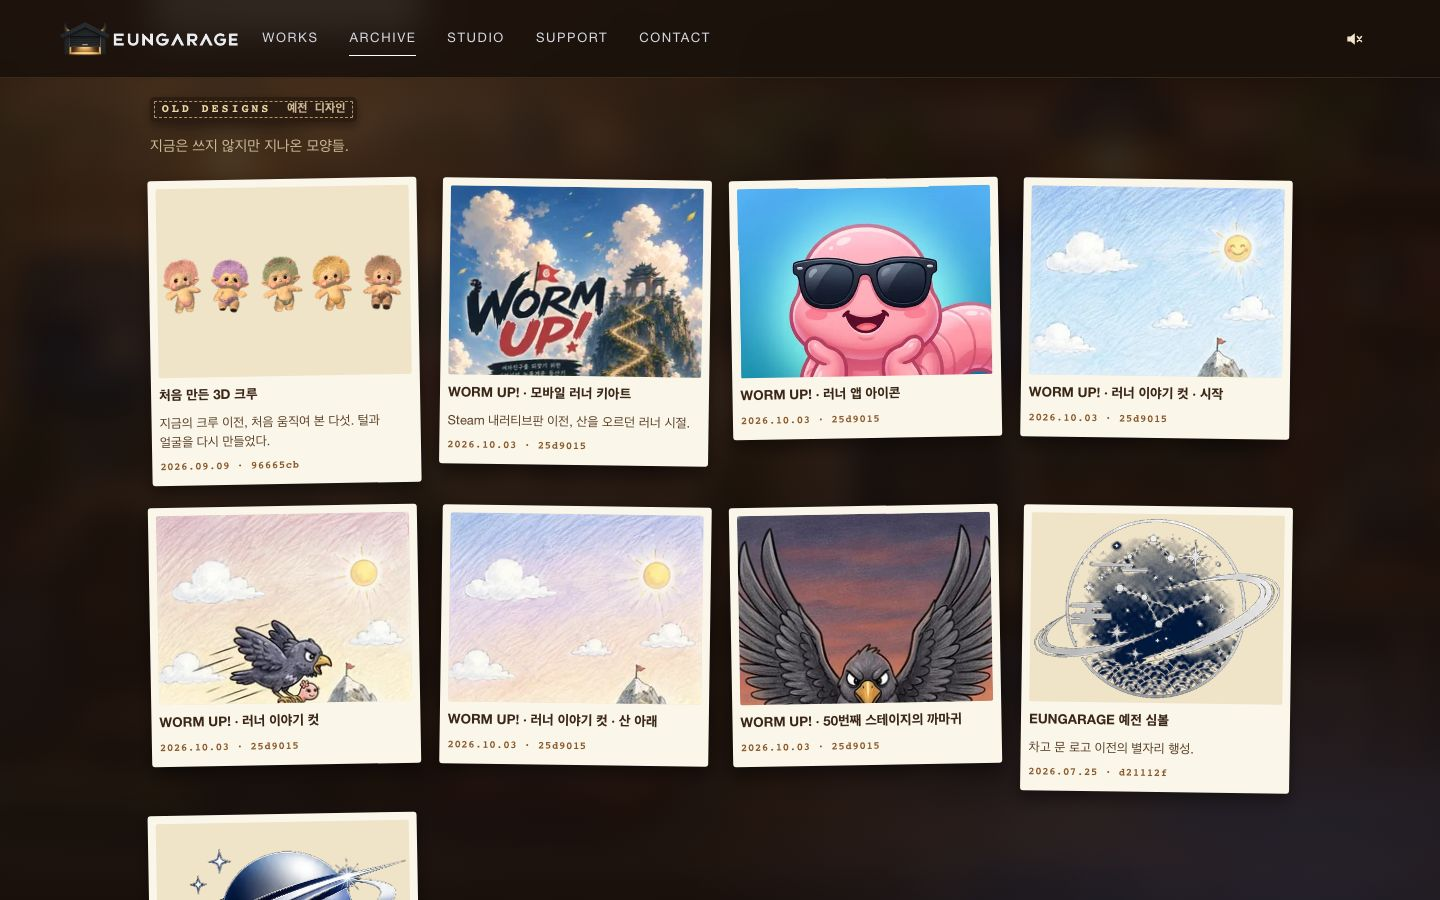
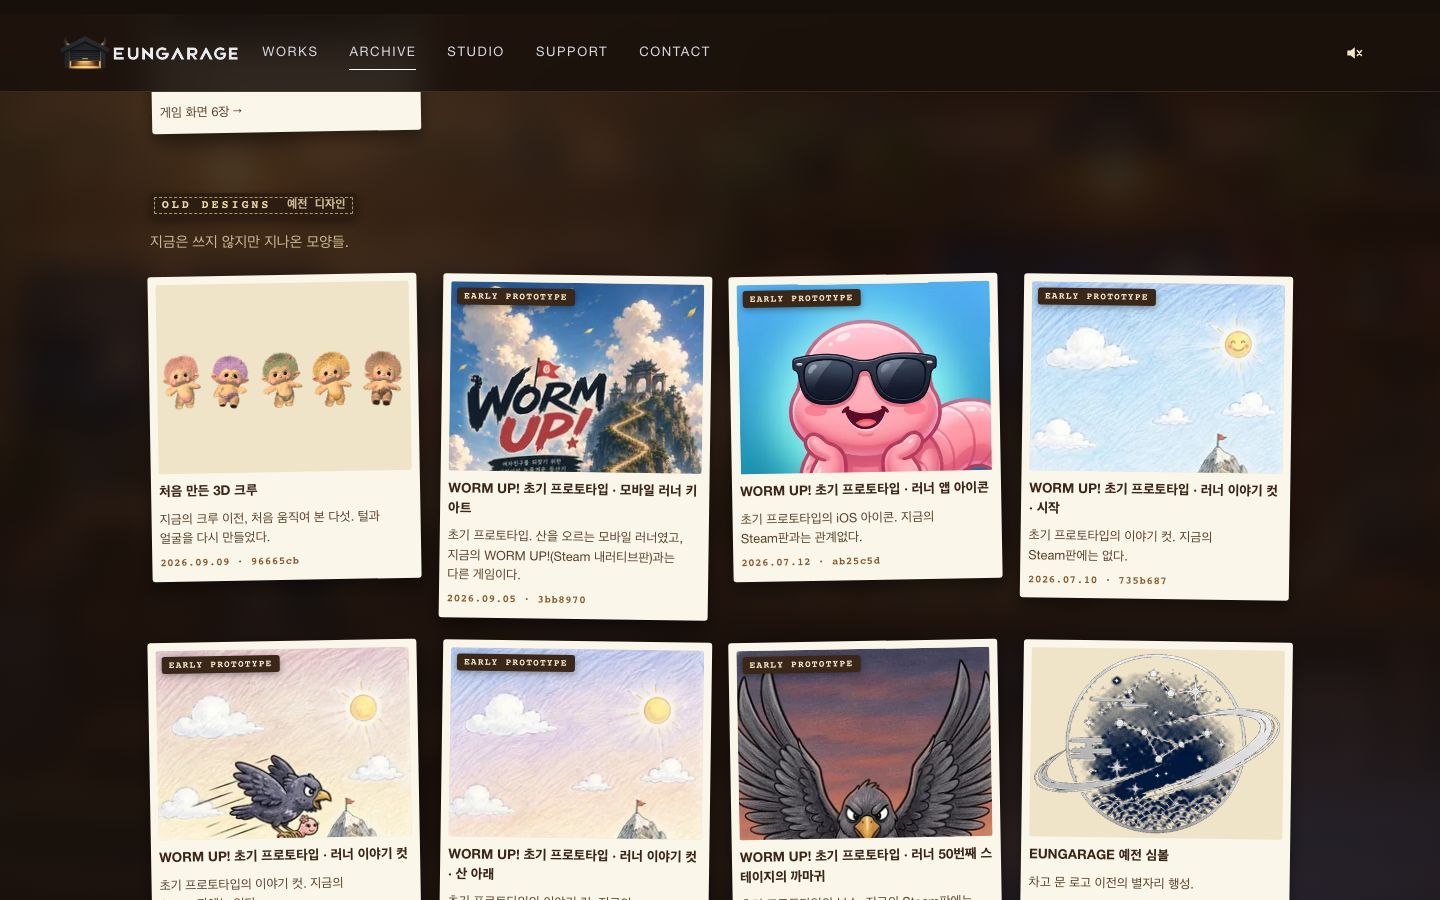
PHASE G: WORM UP! runner shown only as EARLY PROTOTYPE (badge, title, note, real dates); crew memos rewritten as notes in the crew's own voices

diff --git a/src/data/publicArchive.ts b/src/data/publicArchive.ts
@@ -51,6 +51,11 @@ export interface ArchivePicture {
   readonly h: number
   /** The work it belongs to, if one: that work's page can show it too. */
   readonly projectId?: string
+  /**
+   * A label on the card and in the viewer, for what must not be mistaken for
+   * the work as it is now: `EARLY PROTOTYPE` on the WORM UP! runner.
+   */
+  readonly badge?: string
 }
 
 /** A work's gallery, pointed at rather than copied. */
@@ -145,12 +150,22 @@ const DEVELOPMENT: readonly ArchivePicture[] = [
 
 const OLD: readonly ArchivePicture[] = [
   { id: 'crew-first-3d', title: '처음 만든 3D 크루', note: '지금의 크루 이전, 처음 움직여 본 다섯. 털과 얼굴을 다시 만들었다.', date: '2026.09.09', source: '96665cb', w: 1600, h: 419 },
-  { id: 'wormup-runner-keyart', projectId: 'wormup', title: 'WORM UP! · 모바일 러너 키아트', note: 'Steam 내러티브판 이전, 산을 오르던 러너 시절.', date: '2026.10.03', source: '25d9015', w: 900, h: 1600 },
-  { id: 'wormup-runner-icon', projectId: 'wormup', title: 'WORM UP! · 러너 앱 아이콘', date: '2026.10.03', source: '25d9015', w: 1024, h: 1024 },
-  { id: 'wormup-runner-couple', projectId: 'wormup', title: 'WORM UP! · 러너 이야기 컷 · 시작', date: '2026.10.03', source: '25d9015', w: 893, h: 1600 },
-  { id: 'wormup-runner-kidnap', projectId: 'wormup', title: 'WORM UP! · 러너 이야기 컷', date: '2026.10.03', source: '25d9015', w: 893, h: 1600 },
-  { id: 'wormup-runner-climb', projectId: 'wormup', title: 'WORM UP! · 러너 이야기 컷 · 산 아래', date: '2026.10.03', source: '25d9015', w: 893, h: 1600 },
-  { id: 'wormup-runner-crow', projectId: 'wormup', title: 'WORM UP! · 50번째 스테이지의 까마귀', date: '2026.10.03', source: '25d9015', w: 768, h: 1344 },
+  // WORM UP! as it began: a mobile runner, a different game from the Steam
+  // narrative WORM UP! of today (the work's page, and CONCEPT ART above).
+  // Every card says so, on the picture and in the viewer. Dated by when each
+  // picture was made: the story cuts, icon and boss by their commit in the
+  // runner's own repository (~/Projects/worm-up), the key art by its first
+  // commit on this site.
+  ...([
+    ['wormup-runner-keyart', '모바일 러너 키아트', '초기 프로토타입. 산을 오르는 모바일 러너였고, 지금의 WORM UP!(Steam 내러티브판)과는 다른 게임이다.', '2026.09.05', '3bb8970', 900, 1600],
+    ['wormup-runner-icon', '러너 앱 아이콘', '초기 프로토타입의 iOS 아이콘. 지금의 Steam판과는 관계없다.', '2026.07.12', 'ab25c5d', 1024, 1024],
+    ['wormup-runner-couple', '러너 이야기 컷 · 시작', '초기 프로토타입의 이야기 컷. 지금의 Steam판에는 없다.', '2026.07.10', '735b687', 893, 1600],
+    ['wormup-runner-kidnap', '러너 이야기 컷', '초기 프로토타입의 이야기 컷. 지금의 Steam판에는 없다.', '2026.07.10', '735b687', 893, 1600],
+    ['wormup-runner-climb', '러너 이야기 컷 · 산 아래', '초기 프로토타입의 이야기 컷. 지금의 Steam판에는 없다.', '2026.07.10', '735b687', 893, 1600],
+    ['wormup-runner-crow', '러너 50번째 스테이지의 까마귀', '초기 프로토타입의 보스. 지금의 Steam판에는 없다.', '2026.07.12', 'de47253', 768, 1344],
+  ] as const).map(([id, what, note, date, source, w, h]) => ({
+    id, projectId: 'wormup', badge: 'EARLY PROTOTYPE', title: `WORM UP! 초기 프로토타입 · ${what}`, note, date, source, w, h,
+  })),
   { id: 'mark-symbol-v01', title: 'EUNGARAGE 예전 심볼', note: '차고 문 로고 이전의 별자리 행성.', date: '2026.07.25', source: 'd21112f', w: 420, h: 312 },
   { id: 'mark-saturn', title: 'EUNGARAGE 예전 마크', note: '고리 달린 행성.', date: '2026.07.25', source: 'd21112f', w: 514, h: 295 },
 ].map((o) => ({ ...o, kind: 'picture' as const, category: 'old' as const, ...own(o.id) }))

diff --git a/src/data/memos.ts b/src/data/memos.ts
@@ -3,10 +3,12 @@
  * PHASE G). One is on top each time the box is opened.
  *
  * Every note is about something that really happened while the garage was
- * being made, on the day it happened (the commit is beside it), in the voice
- * of whoever in the crew it belongs to (docs/CREW_REBOOT.md: MOMO makes,
- * RUKI repairs, YOMI opens the fridge and peers at doors, POKO watches the
- * television, NUNU keeps the cushions). Nothing here is on the public archive.
+ * being made (the comment above each says what, and the commit is beside it),
+ * but written the way the crew would scribble it on a scrap of paper — like
+ * the fridge's own notes, not like a changelog. Each in its owner's voice
+ * (docs/CREW_REBOOT.md): MOMO bright and busy, NUNU sleepy and slow, RUKI
+ * short and practical, YOMI loud and curious, POKO calm, the one who keeps
+ * the room in order. Nothing here is on the public archive.
  */
 export type MemoAuthor = 'momo' | 'nunu' | 'ruki' | 'yomi' | 'poko'
 
@@ -24,10 +26,16 @@ export const MEMO_AUTHOR: Readonly<Record<MemoAuthor, string>> = {
 }
 
 export const MEMOS: readonly Memo[] = [
-  { id: 'memo-momo-ears', by: 'ruki', date: '2026.09.12', commit: '73324c3', text: '모모 머리 줄이지 말 것. 줄였더니 귀까지 작아졌다. 원래 그림대로 간다.' },
-  { id: 'memo-short-fur', by: 'momo', date: '2026.09.13', commit: '4e8aa66', text: '긴 털은 입체로 옮기면 조각조각 떠다닌다. 다섯 다 짧고 촘촘하게.' },
-  { id: 'memo-fridge-doors', by: 'yomi', date: '2026.10.04', commit: '2dfabb2', text: '냉장고 문은 바깥으로 연다. 안에 든 게 가려지면 열어 본 보람이 없으니까.' },
-  { id: 'memo-wisps', by: 'nunu', date: '2026.10.04', commit: '2dfabb2', text: '도깨비불은 넷. 가로등 뒤에 숨어 있던 둘을 앞으로 데려왔다.' },
-  { id: 'memo-two-walking', by: 'poko', date: '2026.10.05', commit: 'e135f69', text: '한 번에 걷는 건 둘까지. 셋이 걸으면 텔레비전이 안 보인다.' },
-  { id: 'memo-fridge-touch', by: 'ruki', date: '2026.10.05', commit: 'a203193', text: '냉장고 앞 도깨비를 눌렀는데 냉장고가 열렸다. 고쳤다. 이제 도깨비가 돌아본다.' },
+  // The redesign that was given up: MOMO's head was made smaller and the ears went with it.
+  { id: 'memo-momo-ears', by: 'momo', date: '2026.09.12', commit: '73324c3', text: '내 머리 작게 하지 마! 귀까지 쪼그라들었잖아. 원래 머리가 제일 좋아.' },
+  // Long fur came apart in 3D; all five went to short, dense pile.
+  { id: 'memo-short-fur', by: 'nunu', date: '2026.09.13', commit: '4e8aa66', text: '다 같이 털 짧게 깎은 날… 이제 방석에 털이 안 날린다. 좋다.' },
+  // The fridge doors were redrawn to swing outward, clear of what is inside.
+  { id: 'memo-fridge-doors', by: 'yomi', date: '2026.10.04', commit: '2dfabb2', text: '냉장고 문이 안쪽을 다 가렸었어! 이제 활짝 열린다. 요거트 누구 거야?' },
+  // Two of the four wisps outside were hidden under the foreground; brought out.
+  { id: 'memo-wisps', by: 'nunu', date: '2026.10.04', commit: '2dfabb2', text: '도깨비불 둘이 가로등 뒤에서 자고 있었다… 깨워서 데려왔다. 나도 자고 싶은데.' },
+  // At most two of the crew walking at once.
+  { id: 'memo-two-walking', by: 'poko', date: '2026.10.05', commit: 'e135f69', text: '돌아다니는 건 한 번에 둘까지. 셋이 지나가면 텔레비전이 안 보인다.' },
+  // A touch on RUKI, standing at the fridge, opened the fridge instead.
+  { id: 'memo-fridge-touch', by: 'ruki', date: '2026.10.05', commit: 'a203193', text: '냉장고 앞에 서 있으면 다들 나 대신 냉장고를 연다. 고쳤다. 이제 부르면 내가 돌아본다.' },
 ]

diff --git a/src/ui/records.ts b/src/ui/records.ts
@@ -21,7 +21,8 @@ function card(e: ArchiveEntry, k: number): string {
     case 'picture':
       return `
         <li><button class="work-shot records-card" type="button" data-record-shot="${k}" aria-label="${esc(e.title)} 크게 보기">
-          <span class="records-card__pic"><img src="${e.thumb}" alt="" loading="lazy" decoding="async" width="${e.w}" height="${e.h}"></span>
+          <span class="records-card__pic"><img src="${e.thumb}" alt="" loading="lazy" decoding="async" width="${e.w}" height="${e.h}">${
+            e.badge ? `<span class="records-card__badge" data-badge>${esc(e.badge)}</span>` : ''}</span>
           <span class="work-shot__cap records-card__t">${esc(e.title)}</span>
           ${e.note ? `<span class="records-card__note">${esc(e.note)}</span>` : ''}
           ${e.date || e.source ? `<span class="records-card__when">${[e.date, e.source].filter(Boolean).map((x) => esc(x!)).join(' · ')}</span>` : ''}
@@ -71,7 +72,7 @@ export function mountRecords(root: ParentNode = document): void {
     if (!pictures.length) continue
     const shots: Shot[] = pictures.map((p) => ({
       src: p.full, w: p.w, h: p.h, caption: p.title,
-      tag: [p.date, p.source].filter(Boolean).join(' · '), polaroid: false,
+      tag: [p.badge, p.date, p.source].filter(Boolean).join(' · '), polaroid: false,
     }))
     const shelf = host.querySelector(`[data-shelf="${s.category.id}"]`)
     for (const btn of shelf?.querySelectorAll<HTMLButtonElement>('[data-record-shot]') ?? []) {

diff --git a/e2e/archive-g.spec.ts b/e2e/archive-g.spec.ts
@@ -74,6 +74,20 @@ test.describe('PUBLIC ARCHIVE — reading it', () => {
     await expect(first).toBeFocused()
   })
 
+  test('the WORM UP! runner is marked EARLY PROTOTYPE on the card and in the viewer', async ({ page }) => {
+    await page.goto('/archive.html', { waitUntil: 'load' })
+    const runner = page.locator('#old [data-record-shot]', { hasText: 'WORM UP!' })
+    expect(await runner.count()).toBeGreaterThanOrEqual(1)
+    for (const card of await runner.all()) await expect(card.locator('[data-badge]')).toHaveText('EARLY PROTOTYPE')
+    await runner.first().scrollIntoViewIfNeeded()
+    await runner.first().click()
+    await expect(page.locator('.work-view__tag')).toContainText('EARLY PROTOTYPE')
+    await expect(page.locator('[data-view-cap]')).toContainText('초기 프로토타입')
+    await page.keyboard.press('Escape')
+    // The Steam WORM UP! in CONCEPT ART carries no such label.
+    await expect(page.locator('#concept [data-badge]')).toHaveCount(0)
+  })
+
   test('the keyboard reaches each shelf from the index', async ({ page }) => {
     await page.goto('/archive.html', { waitUntil: 'load' })
     const link = page.locator('.records-index__a[href="#old"]')

diff --git a/src/styles/works.css b/src/styles/works.css
@@ -400,7 +400,9 @@ body.is-viewing{overflow:hidden}
 .records-grid{grid-template-columns:repeat(auto-fill,minmax(220px,1fr))}
 .records-grid li:only-child{grid-column:auto;max-width:none}
 .records-card{align-content:start;text-decoration:none}
-.records-card__pic{display:grid;place-items:center;aspect-ratio:4/3;overflow:hidden;background:#efe3c8;border-radius:2px}
+.records-card__pic{position:relative;display:grid;place-items:center;aspect-ratio:4/3;overflow:hidden;background:#efe3c8;border-radius:2px}
+/* What must not be taken for the work as it is now (the WORM UP! runner). */
+.records-card__badge{position:absolute;left:6px;top:6px;padding:4px 7px 3px;border-radius:3px;background:#3b2718;color:#f6ead0;font:800 .6rem/1 var(--mono);letter-spacing:.12em;box-shadow:0 2px 6px rgba(0,0,0,.35)}
 .records-card .records-card__pic img{width:100%;height:100%;aspect-ratio:auto;object-fit:contain;background:transparent}
 .records-card__t{font-weight:800}
 .records-card__note{font-size:.8rem;line-height:1.5;color:#5a4128;word-break:keep-all}

diff --git a/test/archive-g.test.ts b/test/archive-g.test.ts
@@ -67,6 +67,19 @@ describe('PUBLIC ARCHIVE (PHASE G)', () => {
     }
   })
 
+  it('never lets the WORM UP! runner pass for the Steam game: every runner card says EARLY PROTOTYPE', () => {
+    const runner = pictures.filter((p) => p.id.startsWith('wormup-runner-'))
+    expect(runner.length).toBeGreaterThanOrEqual(1)
+    for (const p of runner) {
+      expect(p.category, p.id).toBe('old')
+      expect(p.badge, p.id).toBe('EARLY PROTOTYPE')
+      expect(p.title, p.id).toContain('초기 프로토타입')
+      expect(p.note, p.id).toMatch(/초기 프로토타입/)
+    }
+    // The Steam WORM UP! is the work itself, never labelled as a prototype.
+    expect(pictures.find((p) => p.id === 'concept-wormup')?.badge).toBeUndefined()
+  })
+
   it('is a live, indexed page with a place in the nav', () => {
     const route = ROUTES.find((r) => r.path === '/archive.html')
     expect(route?.live).toBe(true)

diff --git a/docs/SITE_UPGRADE_PHASE_G.md b/docs/SITE_UPGRADE_PHASE_G.md
@@ -144,7 +144,31 @@
 - LUMIORA 흔적 링크
 - 비밀 보관소: 메모 · 테이블 · 집어 든 폴라로이드
 
-## 사용자 판정이 필요한 것
+## 사용자 판정 반영 (2026-10-05)
+
+- 공개 범위 승인: 크루 설정화 · 첫 3D 크루 · WORM UP! 러너 자료 · 예전 마크.
+- WORM UP! 러너 자료는 **EARLY PROTOTYPE**으로만 보이게 했다.
+  - 카드 그림 위에 `EARLY PROTOTYPE` 띠를, 뷰어 캡션에 같은 표기를 붙였다.
+  - 제목은 "WORM UP! 초기 프로토타입 · …"로 바꿨다.
+  - 설명에 "지금의 WORM UP!(Steam 내러티브판)과는 다른 게임 / 지금의 Steam판에는 없다"를 적었다.
+  - 날짜는 보관한 날(10.03)이 아니라 그림이 만들어진 날로 바꿨다: 이야기 컷 07.10 · 아이콘과 까마귀 07.12(러너 저장소 커밋), 키아트 09.05(이 사이트 첫 커밋).
+  - CONCEPT ART의 Steam판 키아트에는 이 표기가 없다. 테스트가 두 가지를 모두 지킨다.
+- 비밀 보관소 5장은 승인. 공개 기록실과 겹치지 않는 원칙도 유지한다.
+- 크루 메모 6장을 다시 썼다.
+  - 실제 사건과 날짜 · 커밋은 그대로 두었다.
+  - 문장은 냉장고 메모("내 계란 먹지 마시오. — POKO")처럼 차고 안에서 쓴 쪽지로 바꿨다.
+  - 말투는 정본 성격을 따랐다: MOMO 밝음 · NUNU 졸림 · RUKI 짧고 실무적 · YOMI 호들갑 · POKO 차분.
+
+| id | BEFORE | AFTER |
+|---|---|---|
+| memo-momo-ears | 모모 머리 줄이지 말 것. 줄였더니 귀까지 작아졌다. 원래 그림대로 간다. — RUKI | 내 머리 작게 하지 마! 귀까지 쪼그라들었잖아. 원래 머리가 제일 좋아. — MOMO |
+| memo-short-fur | 긴 털은 입체로 옮기면 조각조각 떠다닌다. 다섯 다 짧고 촘촘하게. — MOMO | 다 같이 털 짧게 깎은 날… 이제 방석에 털이 안 날린다. 좋다. — NUNU |
+| memo-fridge-doors | 냉장고 문은 바깥으로 연다. 안에 든 게 가려지면 열어 본 보람이 없으니까. — YOMI | 냉장고 문이 안쪽을 다 가렸었어! 이제 활짝 열린다. 요거트 누구 거야? — YOMI |
+| **memo-wisps** | 도깨비불은 넷. 가로등 뒤에 숨어 있던 둘을 앞으로 데려왔다. — NUNU | 도깨비불 둘이 가로등 뒤에서 자고 있었다… 깨워서 데려왔다. 나도 자고 싶은데. — NUNU |
+| memo-two-walking | 한 번에 걷는 건 둘까지. 셋이 걸으면 텔레비전이 안 보인다. — POKO | 돌아다니는 건 한 번에 둘까지. 셋이 지나가면 텔레비전이 안 보인다. — POKO |
+| **memo-fridge-touch** | 냉장고 앞 도깨비를 눌렀는데 냉장고가 열렸다. 고쳤다. 이제 도깨비가 돌아본다. — RUKI | 냉장고 앞에 서 있으면 다들 나 대신 냉장고를 연다. 고쳤다. 이제 부르면 내가 돌아본다. — RUKI |
+
+## 사용자 판정이 필요한 것 (처음 보고 때)
 
 1. 공개 범위: 크루 설정화 원본 · 첫 3D 크루 · WORM UP! 러너 자료 · 예전 마크를 공개 기록실에 내도 되는지.
 2. 크루 메모 6장의 말투 · 내용.
